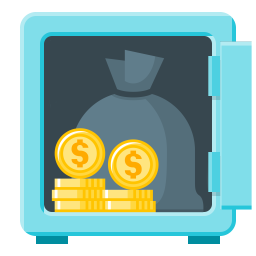
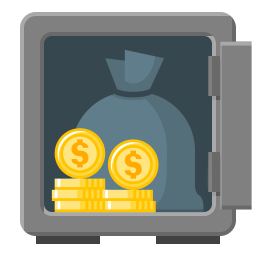
Change design

diff --git a/PilotsBrothersSafe/Controls/GameBoard.Designer.cs b/PilotsBrothersSafe/Controls/GameBoard.Designer.cs
@@ -37,6 +37,9 @@
             this.helpButton = new PilotsBrothersSafe.Controls.HelpButton();
             this.numberOfMovesLabel = new System.Windows.Forms.Label();
             this.safe = new PilotsBrothersSafe.Controls.Safe();
+            this.gameBoardTable = new System.Windows.Forms.TableLayoutPanel();
+            this.gameControls = new System.Windows.Forms.TableLayoutPanel();
+            this.numberOfMovesLabel = new System.Windows.Forms.Label();
             this.gameBoardTable.SuspendLayout();
             this.gameControls.SuspendLayout();
             this.SuspendLayout();
@@ -85,7 +88,7 @@
             this.backToMenuButton.Dock = System.Windows.Forms.DockStyle.Fill;
             this.backToMenuButton.FlatStyle = System.Windows.Forms.FlatStyle.Flat;
             this.backToMenuButton.Font = new System.Drawing.Font("Segoe UI", 20.25F, System.Drawing.FontStyle.Regular, System.Drawing.GraphicsUnit.Point);
-            this.backToMenuButton.ForeColor = System.Drawing.Color.RoyalBlue;
+            //this.backToMenuButton.ForeColor = System.Drawing.Color.RoyalBlue;
             this.backToMenuButton.Location = new System.Drawing.Point(3, 3);
             this.backToMenuButton.Name = "backToMenuButton";
             this.backToMenuButton.Size = new System.Drawing.Size(122, 51);
@@ -100,7 +103,7 @@
             this.restartButton.Dock = System.Windows.Forms.DockStyle.Fill;
             this.restartButton.FlatStyle = System.Windows.Forms.FlatStyle.Flat;
             this.restartButton.Font = new System.Drawing.Font("Segoe UI", 20.25F, System.Drawing.FontStyle.Regular, System.Drawing.GraphicsUnit.Point);
-            this.restartButton.ForeColor = System.Drawing.Color.RoyalBlue;
+           // this.restartButton.ForeColor = System.Drawing.Color.RoyalBlue;
             this.restartButton.Location = new System.Drawing.Point(259, 3);
             this.restartButton.Name = "restartButton";
             this.restartButton.Size = new System.Drawing.Size(122, 51);
@@ -115,7 +118,7 @@
             this.solveButton.Dock = System.Windows.Forms.DockStyle.Fill;
             this.solveButton.FlatStyle = System.Windows.Forms.FlatStyle.Flat;
             this.solveButton.Font = new System.Drawing.Font("Segoe UI", 20F, System.Drawing.FontStyle.Regular, System.Drawing.GraphicsUnit.Point);
-            this.solveButton.ForeColor = System.Drawing.Color.RoyalBlue;
+          //  this.solveButton.ForeColor = System.Drawing.Color.RoyalBlue;
             this.solveButton.Location = new System.Drawing.Point(131, 3);
             this.solveButton.Name = "solveButton";
             this.solveButton.Size = new System.Drawing.Size(122, 51);
@@ -130,7 +133,7 @@
             this.helpButton.Dock = System.Windows.Forms.DockStyle.Fill;
             this.helpButton.FlatStyle = System.Windows.Forms.FlatStyle.Flat;
             this.helpButton.Font = new System.Drawing.Font("Segoe UI", 20F, System.Drawing.FontStyle.Regular, System.Drawing.GraphicsUnit.Point);
-            this.helpButton.ForeColor = System.Drawing.Color.RoyalBlue;
+           // this.helpButton.ForeColor = System.Drawing.Color.RoyalBlue;
             this.helpButton.Location = new System.Drawing.Point(387, 3);
             this.helpButton.Name = "helpButton";
             this.helpButton.Size = new System.Drawing.Size(122, 51);
@@ -143,7 +146,7 @@
             this.numberOfMovesLabel.AutoSize = true;
             this.numberOfMovesLabel.Dock = System.Windows.Forms.DockStyle.Fill;
             this.numberOfMovesLabel.Font = new System.Drawing.Font("Segoe UI", 20.25F, System.Drawing.FontStyle.Regular, System.Drawing.GraphicsUnit.Point);
-            this.numberOfMovesLabel.ForeColor = System.Drawing.Color.RoyalBlue;
+            this.numberOfMovesLabel.ForeColor = System.Drawing.Color.SteelBlue;
             this.numberOfMovesLabel.Location = new System.Drawing.Point(3, 63);
             this.numberOfMovesLabel.Name = "numberOfMovesLabel";
             this.numberOfMovesLabel.Size = new System.Drawing.Size(512, 50);
@@ -154,7 +157,6 @@
             // safe
             // 
             this.safe.BackColor = System.Drawing.Color.Transparent;
-            this.safe.BackgroundImage = ((System.Drawing.Image)(resources.GetObject("safe.BackgroundImage")));
             this.safe.BackgroundImageLayout = System.Windows.Forms.ImageLayout.Zoom;
             this.safe.Dock = System.Windows.Forms.DockStyle.Fill;
             this.safe.Location = new System.Drawing.Point(3, 116);

diff --git a/PilotsBrothersSafe/GameForm.Designer.cs b/PilotsBrothersSafe/GameForm.Designer.cs
@@ -53,7 +53,7 @@
             // 
             this.helpButton.BackColor = System.Drawing.SystemColors.ButtonFace;
             resources.ApplyResources(this.helpButton, "helpButton");
-            this.helpButton.ForeColor = System.Drawing.Color.RoyalBlue;
+          //  this.helpButton.ForeColor = System.Drawing.Color.SteelBlue;
             this.helpButton.Name = "helpButton";
             this.helpButton.UseVisualStyleBackColor = false;
             // 
@@ -61,7 +61,7 @@
             // 
             this.startButton.BackColor = System.Drawing.SystemColors.ButtonFace;
             resources.ApplyResources(this.startButton, "startButton");
-            this.startButton.ForeColor = System.Drawing.Color.RoyalBlue;
+           // this.startButton.ForeColor = System.Drawing.Color.SteelBlue;
             this.startButton.Name = "startButton";
             this.startButton.UseVisualStyleBackColor = false;
             this.startButton.Click += new System.EventHandler(this.startButton_Click);
@@ -70,7 +70,7 @@
             // 
             resources.ApplyResources(this.menuLabel, "menuLabel");
             this.mainMenu.SetColumnSpan(this.menuLabel, 3);
-            this.menuLabel.ForeColor = System.Drawing.Color.RoyalBlue;
+            this.menuLabel.ForeColor = System.Drawing.Color.SteelBlue;
             this.menuLabel.Name = "menuLabel";
             // 
             // mainMenu
@@ -94,13 +94,13 @@
             // dimensionsLabel
             // 
             resources.ApplyResources(this.dimensionsLabel, "dimensionsLabel");
-            this.dimensionsLabel.ForeColor = System.Drawing.Color.RoyalBlue;
+            this.dimensionsLabel.ForeColor = System.Drawing.Color.SteelBlue;
             this.dimensionsLabel.Name = "dimensionsLabel";
             // 
             // dimensionsNumericUpDown
             // 
             resources.ApplyResources(this.dimensionsNumericUpDown, "dimensionsNumericUpDown");
-            this.dimensionsNumericUpDown.ForeColor = System.Drawing.Color.DodgerBlue;
+            this.dimensionsNumericUpDown.ForeColor = System.Drawing.Color.SteelBlue;
             this.dimensionsNumericUpDown.Maximum = new decimal(new int[] {
             10,
             0,

diff --git a/PilotsBrothersSafe/Controls/Handle.cs b/PilotsBrothersSafe/Controls/Handle.cs
@@ -60,9 +60,9 @@ namespace PilotsBrothersSafe.Controls
                 BackColor = state switch
                 {
                     States.Default => Color.Transparent,
-                    States.PaintedOver => Color.FromArgb(76, 99, 107),
-                    States.Highlighted => Color.FromArgb(192, 255, 255),
-                    States.PaintedOverHighlighted => Color.Gray,
+                    States.PaintedOver => Color.FromArgb(55, 71, 79),
+                    States.Highlighted => Color.FromArgb(169, 169, 169),
+                    States.PaintedOverHighlighted => Color.FromArgb(83, 99, 107),
                     _ => throw new NotImplementedException("Недопустимое состояние")
                 };
             }

diff --git a/PilotsBrothersSafe/Controls/GameInterfaceButton.cs b/PilotsBrothersSafe/Controls/GameInterfaceButton.cs
@@ -17,7 +17,7 @@ namespace PilotsBrothersSafe.Controls
         {
             InitializeComponent();
             BackColor = SystemColors.ButtonFace;
-            ForeColor = Color.RoyalBlue;
+            ForeColor = Color.SteelBlue;
             FlatStyle = FlatStyle.Flat;
             Dock = DockStyle.Fill;
             Font = new Font("Segoe UI", 20);
